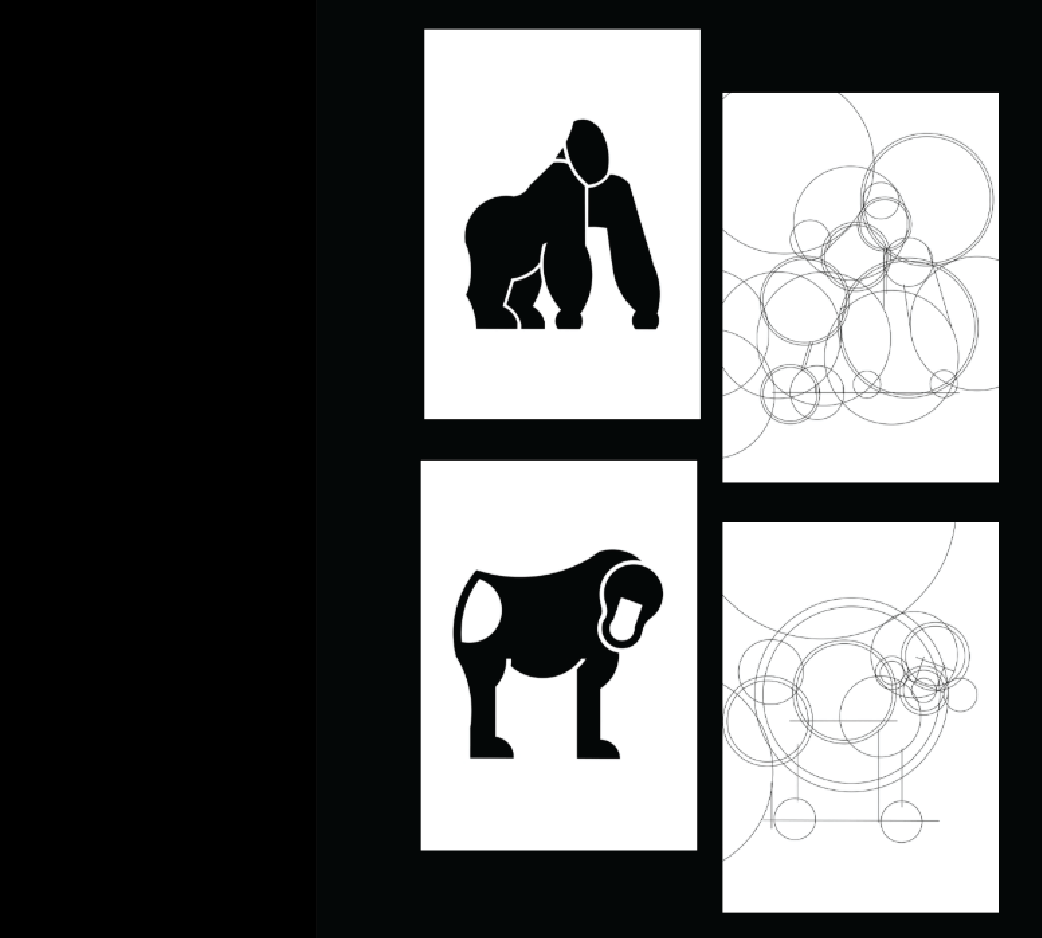
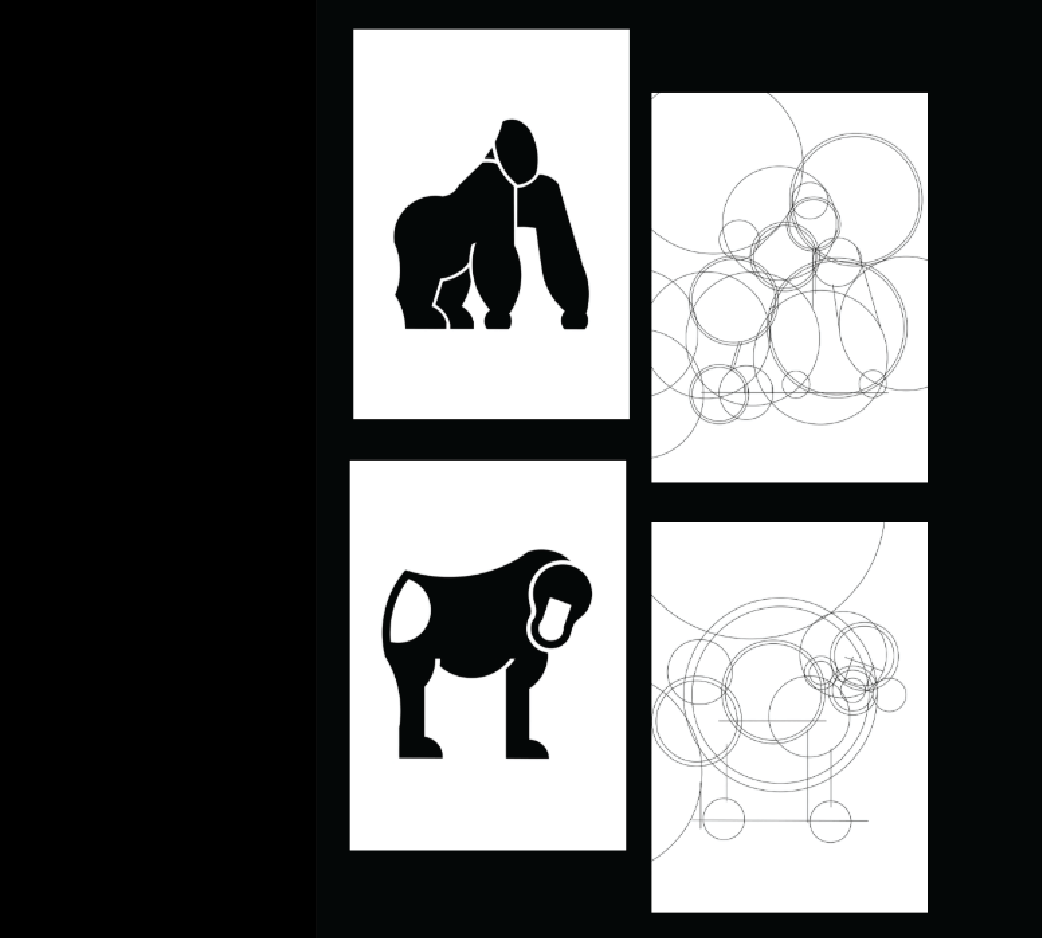
fix for <p> / margin-bottom reset

Changed region(s): [[0.3378, 0.0309, 0.9827, 0.9893]]

diff --git a/pages/Portfolio.html b/pages/Portfolio.html
@@ -49,7 +49,7 @@
         </div>
         <embed src="../assets/Portfolio-Lanati_Candela.pdf" type="application/pdf" class="pdf_preview spacing-2">
         <!--preview, agregar imagen-->
-        <div class="spacing-2 pdf_preview_page ">
+        <div class="spacing-2  center_row">
             <a href="../assets/Portfolio-Lanati_Candela.pdf"><svg xmlns="http://www.w3.org/2000/svg" height="70px" viewBox="0 -960 960 960" width="70px" fill="#080808a4"><path d="M360-460h40v-80h40q17 0 28.5-11.5T480-580v-40q0-17-11.5-28.5T440-660h-80v200Zm40-120v-40h40v40h-40Zm120 120h80q17 0 28.5-11.5T640-500v-120q0-17-11.5-28.5T600-660h-80v200Zm40-40v-120h40v120h-40Zm120 40h40v-80h40v-40h-40v-40h40v-40h-80v200ZM320-240q-33 0-56.5-23.5T240-320v-480q0-33 23.5-56.5T320-880h480q33 0 56.5 23.5T880-800v480q0 33-23.5 56.5T800-240H320Zm0-80h480v-480H320v480ZM160-80q-33 0-56.5-23.5T80-160v-560h80v560h560v80H160Zm160-720v480-480Z"/></svg></a>
             <p class="note">*menor calidad</p>
         </div>

diff --git a/css/style.css b/css/style.css
@@ -127,6 +127,11 @@ h4{
     font-size: large;
 }
 
+p{
+    /*se pone automaticamente margin-bottom:1rem sino*/
+    margin-bottom: 0px;
+}
+
 /*SOBRE MI SECTION*/
 #sobre_mi-mobile{
     display:none;
@@ -251,9 +256,14 @@ h4{
     background-color: #D9D9D9;
 }
 
+/*CENTRADOS*/
 .center_column{
     display: flex;
     flex-direction: column;
+    align-items: center;
+}
+.center_row{
+    display: flex;
     align-items: center;
 }
 
